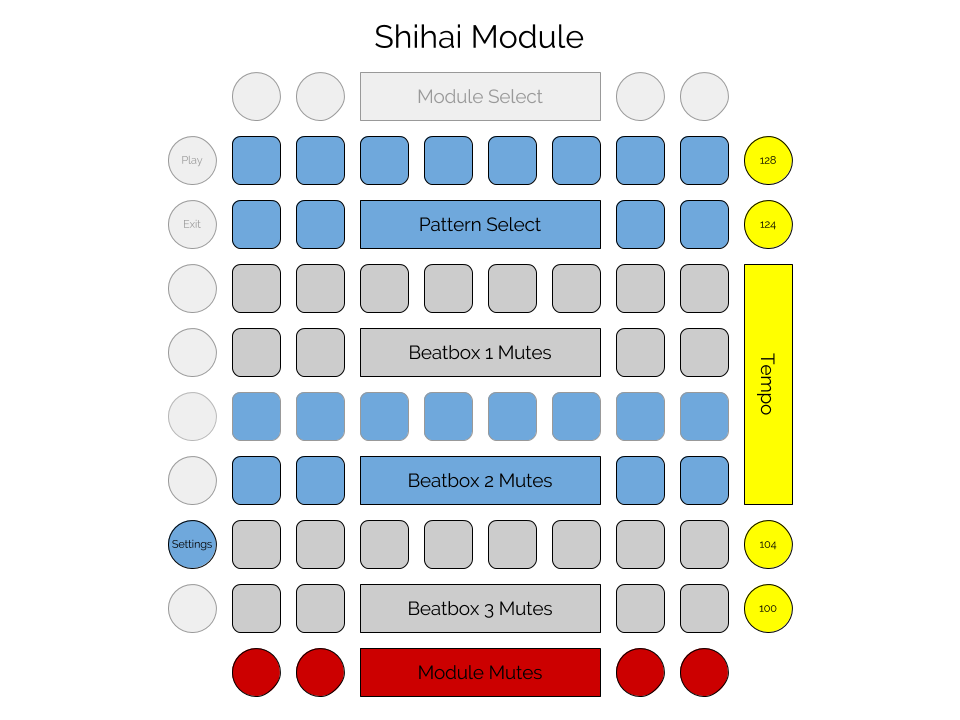
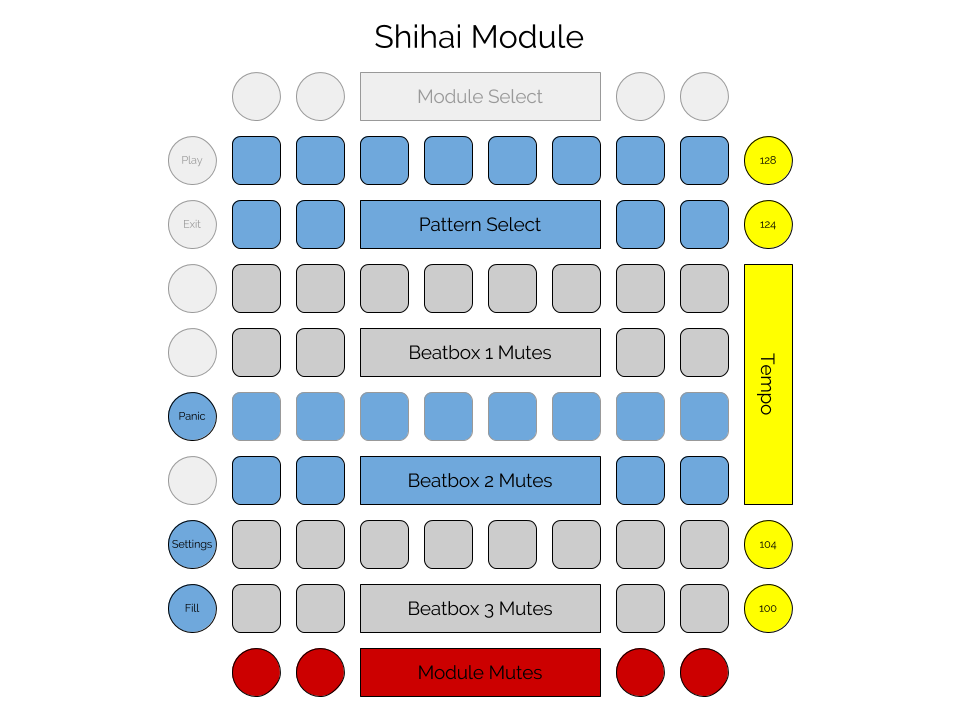
Add a fill button to Shihai that triggers fills in all Sessionizeable modules

Changed region(s): [[0.1562, 0.5194, 0.25, 0.6111], [0.1562, 0.7944, 0.25, 0.8861]]

diff --git a/src/main/java/net/perkowitz/issho/hachi/modules/shihai/ShihaiModule.java b/src/main/java/net/perkowitz/issho/hachi/modules/shihai/ShihaiModule.java
@@ -130,6 +130,15 @@ public class ShihaiModule extends MidiModule implements Clockable {
                 }
             }
 
+        } else if (control.equals(ShihaiUtil.fillControl)) {
+            for (Module module : modules) {
+                if (module instanceof Sessionizeable) {
+                    Sessionizeable sessionizeable = (Sessionizeable) module;
+                    sessionizeable.fillOn(null);
+                }
+            }
+            shihaiDisplay.drawControl(fillControl, true);
+
         } else if (settingsView) {
             onControlPressedSettings(control, velocity);
 
@@ -210,6 +219,15 @@ public class ShihaiModule extends MidiModule implements Clockable {
 
         } else if (control.equals(ShihaiUtil.panicControl)) {
             shihaiDisplay.drawControl(ShihaiUtil.panicControl, false);
+
+        } else if (control.equals(ShihaiUtil.fillControl)) {
+            for (Module module : modules) {
+                if (module instanceof Sessionizeable) {
+                    Sessionizeable sessionizeable = (Sessionizeable) module;
+                    sessionizeable.fillOff();
+                }
+            }
+            shihaiDisplay.drawControl(fillControl, false);
 
         }
 

diff --git a/src/main/java/net/perkowitz/issho/hachi/modules/shihai/ShihaiUtil.java b/src/main/java/net/perkowitz/issho/hachi/modules/shihai/ShihaiUtil.java
@@ -54,6 +54,7 @@ public class ShihaiUtil {
     // left controls
     public static GridControl settingsControl = new GridControl(GridButton.at(Left, 6), null);
     public static GridControl panicControl = new GridControl(GridButton.at(Left, 4), null);
+    public static GridControl fillControl = new GridControl(GridButton.at(Left, 7), null);
 
 
 }

diff --git a/src/main/java/net/perkowitz/issho/hachi/modules/shihai/ShihaiDisplay.java b/src/main/java/net/perkowitz/issho/hachi/modules/shihai/ShihaiDisplay.java
@@ -136,6 +136,7 @@ public class ShihaiDisplay {
     public void drawLeftControls() {
         drawControl(ShihaiUtil.settingsControl, settingsView);
         drawControl(ShihaiUtil.panicControl, false);
+        drawControl(ShihaiUtil.fillControl, false);
     }
 
     public void drawControl(GridControl control, boolean isOn) {

diff --git a/doc/hachi/modules/shihai.md b/doc/hachi/modules/shihai.md
@@ -15,16 +15,19 @@ and knows what it can tell the modules to do. These capabilities include:
 
 # Examples and Uses
 
-- **Song transitions**. Organize your set so that, in each sequencer module, each session is a separate song. Transition to a new song by selecting the session in Shihai, forcing all sequencers to transition together.
-- **Song sections**. Similarly, arrange the sections of songs to use the same pattern numbers in each sequencer, and use Shihai to load those patterns simultaneously.
-- **Mix and arrange**. Use Shihai's module mutes and pattern controls to bring tracks in and out of the mix and select different beats. The measure clock can help time changes and transitions.
+- **Song transitions**. Organize your set so that, in each sequencer module, each session is a separate song. 
+Transition to a new song by selecting the session in Shihai, forcing all sequencers to transition together.
+- **Song sections**. Similarly, arrange the sections of songs to use the same pattern numbers in each sequencer, 
+and use Shihai to load those patterns simultaneously.
+- **Mix and arrange**. Use Shihai's module mutes and pattern controls to bring tracks in and out of the 
+mix and select different beats. The measure clock can help time changes and transitions.
 
 
 # Layout and Controls
 
 ## Main View
 
-<img width="600px" src="shihai.png"/>
+<img width="960px" src="shihai.png"/>
 
 ### Patterns
 
@@ -49,17 +52,29 @@ The 8 buttons on the right are used to select Hachi's clock tempo. Tempo values 
 These buttons can be used to mute the 8 modules loaded into Hachi. Positions correspond to
 the module select buttons in the top row. Only muteable modules will be lit.
 
-### Save
+### Beatbox Mutes
+
+Hachi can be used to mute and unmute tracks in up to three [Beat](beat.md) modules loaded in Hachi. 
+The first module loaded will be controlled by pad rows 3 and 4, the second by rows 5 and 6, and
+the third by rows 7 and 8. The colors Shihai uses will be based on the color palette used by
+each Beat instance.
+
+<!--### Save
 
 Pressing the save button will tell every module that can save data to save its 
 current data to its current file, similar to pressing the save button on those
 individual modules.
-
+-->
 
 ### Panic
 
 Press this button to send an "all notes off" message on all MIDI channels,
 in case of any stuck notes.
+
+### Fill
+
+Press this button to trigger a fill pattern in any module that supports fills. Releasing the button
+will end the fill.
 
 ### Settings
 
